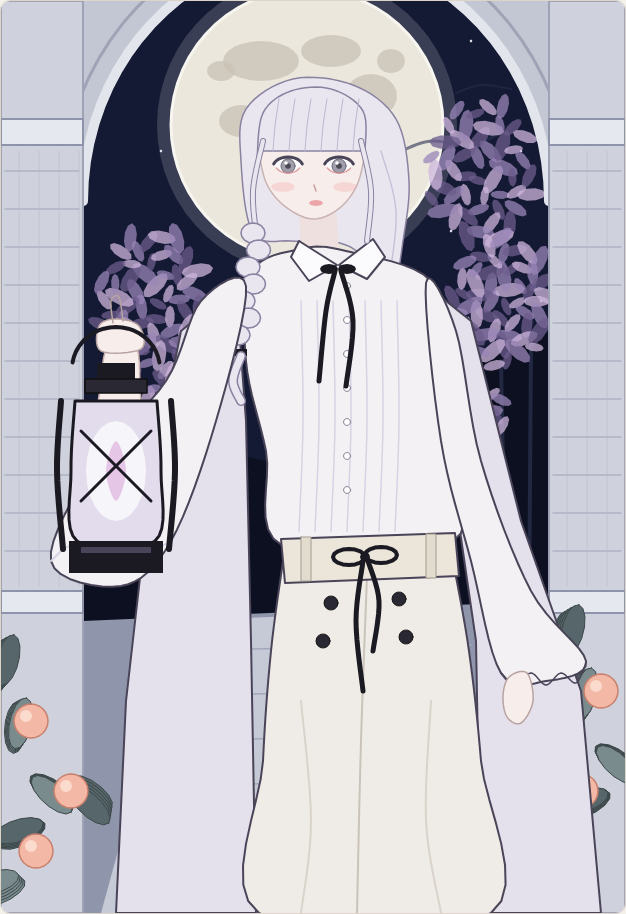
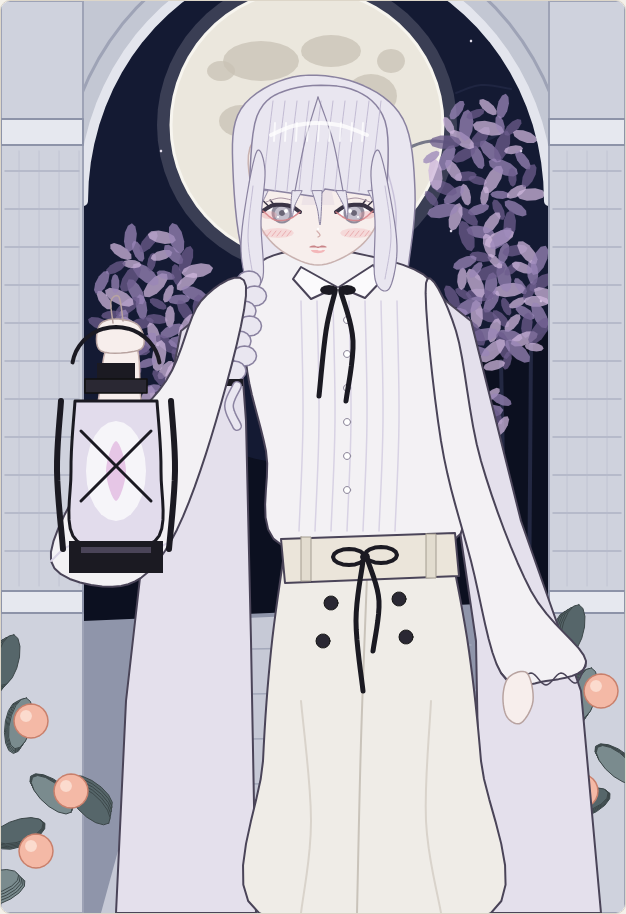
模写の顔を参考画像に近づけて描き直す
- 目の位置を下げ、両目の間隔を広げて顔の縦の比率を合わせる
- 上まぶたが瞳にかかる伏し目、目尻のまつげと赤み、頬の斜線、鼻の光を追加
- 目にかかる長めの前髪と毛束、頭頂のツヤ、顔の横の髪を描き直す
- 下がった顔に合わせて首・襟・リボン・三つ編みの位置を調整

Claude-Session: https://claude.ai/code/session_01W1Jjhj6wMiZRv3q4EmwvhF

Changed region(s): [[0.3642, 0.0613, 0.6677, 0.4902]]

diff --git a/drawing-app/moonlight-copy.js b/drawing-app/moonlight-copy.js
@@ -90,12 +90,12 @@
       { fill: '#e4e0ec', color: LINE, width: 2 });
 
   // 髪（後ろ）
-  add(curve([[240, 160], [245, 108], [292, 78], [352, 84], [395, 118], [408, 180], [402, 240], [392, 290],
-             [372, 300], [360, 255], [330, 240], [290, 240], [252, 232]], true), { fill: HAIR, color: HAIR_LINE, width: 1.5 });
+  add(curve([[232, 170], [240, 108], [292, 76], [356, 82], [402, 118], [414, 190], [408, 260], [398, 310],
+             [378, 318], [366, 270], [330, 262], [290, 262], [246, 262]], true), { fill: HAIR, color: HAIR_LINE, width: 1.5 });
   add(curve([[380, 150], [395, 210], [388, 280]]), { color: '#c9c2da', width: 1.5 });
 
   // 首
-  add([[298, 208], [335, 208], [338, 252], [300, 252]], { fill: '#ede0de', width: 0 });
+  add([[300, 250], [334, 250], [337, 282], [302, 282]], { fill: '#ede0de', width: 0 });
 
   // ブラウス（胴）
   add(curve([[300, 248], [250, 272], [245, 360], [265, 450], [282, 545], [452, 540], [445, 450], [438, 360],
@@ -110,12 +110,12 @@
   add(curve([[508, 676], [526, 672], [532, 700], [520, 722], [506, 716], [502, 695]], true), { fill: SKIN, color: '#b8a3a0', width: 1.5 });
 
   // 襟とリボン
-  add([[298, 240], [336, 264], [308, 280], [290, 256]], { fill: '#fbfafc', color: LINE, width: 2 });
-  add([[372, 238], [338, 264], [366, 278], [384, 256]], { fill: '#fbfafc', color: LINE, width: 2 });
-  add(ellipse(328, 268, 9, 5, 0, Math.PI * 2, 12), { fill: '#1b1a22', width: 0 });
-  add(ellipse(346, 268, 9, 5, 0, Math.PI * 2, 12), { fill: '#1b1a22', width: 0 });
-  add(curve([[334, 270], [325, 310], [318, 380]]), { color: '#1b1a22', width: 5 });
-  add(curve([[340, 270], [352, 320], [345, 385]]), { color: '#1b1a22', width: 5 });
+  add([[300, 266], [336, 286], [310, 298], [292, 278]], { fill: '#fbfafc', color: LINE, width: 2 });
+  add([[372, 264], [338, 286], [364, 297], [382, 278]], { fill: '#fbfafc', color: LINE, width: 2 });
+  add(ellipse(328, 289, 9, 5, 0, Math.PI * 2, 12), { fill: '#1b1a22', width: 0 });
+  add(ellipse(346, 289, 9, 5, 0, Math.PI * 2, 12), { fill: '#1b1a22', width: 0 });
+  add(curve([[334, 291], [325, 330], [318, 395]]), { color: '#1b1a22', width: 5 });
+  add(curve([[340, 291], [352, 340], [345, 400]]), { color: '#1b1a22', width: 5 });
 
   // スカート（ハイウエスト、前ボタン）
   add(curve([[282, 560], [270, 650], [262, 760], [258, H], [490, H], [480, 760], [468, 650], [452, 560]]),
@@ -136,42 +136,83 @@
   add(curve([[362, 560], [355, 620], [362, 690]]), { color: '#1b1a22', width: 5 });
   add(curve([[367, 560], [378, 600], [372, 650]]), { color: '#1b1a22', width: 5 });
 
-  // 顔
-  add(curve([[262, 125], [262, 172], [280, 202], [312, 218], [342, 204], [360, 172], [360, 125], [312, 100]], true),
+  // 顔（参考画像で目は顔の縦中央より下、両目の間隔は広め）
+  add(curve([[252, 140], [253, 200], [262, 230], [284, 252], [317, 264], [350, 252], [372, 230], [381, 200], [382, 140], [317, 98]], true),
       { fill: SKIN, color: '#c9b2b0', width: 1.5 });
-  // 目（灰色の瞳、赤みのある下まぶた）
-  [[287, 164], [338, 164]].forEach(([x, y]) => {
-    add(ellipse(x, y, 13, 8, 0, Math.PI * 2, 20), { fill: '#fbfbfd', width: 0 });
-    add(circle(x, y + 1, 7, 18), { fill: '#a19eab', color: '#6a6678', width: 1 });
-    add(circle(x, y + 1, 3, 10), { fill: '#4d4a57', width: 0 });
-    add(circle(x - 2, y - 2, 1.8, 8), { fill: '#fff', width: 0 });
-    add(ellipse(x, y + 2, 15, 10, Math.PI * 1.1, Math.PI * 1.9, 12), { color: LINE, width: 3 });
-    add(ellipse(x, y - 1, 13, 9, Math.PI * 0.15, Math.PI * 0.85, 10), { color: '#d98a8a', width: 1.5, alpha: 0.8 });
-  });
-  add(ellipse(282, 186, 12, 5, 0, Math.PI * 2, 12), { fill: '#f2a9ab', width: 0, alpha: 0.35 });
-  add(ellipse(344, 186, 12, 5, 0, Math.PI * 2, 12), { fill: '#f2a9ab', width: 0, alpha: 0.35 });
-  add([[313, 184], [315, 190]], { color: '#c9a2a0', width: 1.5 });
-  add(ellipse(315, 202, 7, 3, 0, Math.PI * 2, 12), { fill: '#eba5a8', width: 0 });
+  // 前髪の落とす影
+  add([[252, 186], [382, 186], [382, 204], [252, 204]], { fill: '#d9cfe0', width: 0, alpha: 0.35 });
 
-  // 前髪（ぱっつん）とサイドの髪
-  const fringe = [[256, 158]];
-  for (let x = 262; x <= 362; x += 10) fringe.push([x, x % 20 ? 150 : 158]);
-  add([...fringe, ...curve([[364, 150], [362, 110], [330, 88], [290, 90], [262, 112], [256, 158]])],
+  // 目：横長のアーモンド形。上まぶたが瞳の上側を大きく隠す伏し目。dir は目尻の向き
+  const eye = (cx, cy, dir) => {
+    const inner = [cx - 17 * dir, cy + 2], outer = [cx + 20 * dir, cy + 1];
+    const upper = curve([inner, [cx - 7 * dir, cy - 4], [cx + 9 * dir, cy - 5], outer]);
+    const lower = curve([outer, [cx + 8 * dir, cy + 10], [cx - 6 * dir, cy + 9], inner]);
+    add([...upper, ...lower], { fill: '#fdfcfe', width: 0 });                     // 白目
+    add(circle(cx + 1 * dir, cy + 3, 10.5, 24), { fill: '#8f8b9b', width: 0 });    // 虹彩（外周）
+    add(circle(cx + 1 * dir, cy + 4, 7.5, 20), { fill: '#c4c0cd', width: 0 });     // 虹彩（内側の明るみ）
+    add(circle(cx + 1 * dir, cy + 3, 3, 12), { fill: '#6a6676', width: 0 });       // 瞳孔
+    // 上まぶたで瞳の上側を隠す（肌色で覆う）
+    add([...upper, [outer[0] + 4 * dir, cy - 18], [inner[0] - 4 * dir, cy - 18]], { fill: SKIN, width: 0 });
+    add(upper, { color: '#3a3445', width: 4 });                                    // まつげの線
+    [[0.55, -6], [0.8, -5], [1, -3]].forEach(([t, dy]) => {                        // 目尻側のまつげ
+      const x = cx + (-7 + 27 * t) * dir, y = cy - 4 + (t > 0.9 ? 4 : 0);
+      add([[x, y], [x + 5 * dir, y + dy]], { color: '#3a3445', width: 1.5 });
+    });
+    add(curve([[cx - 12 * dir, cy - 9], [cx + 3 * dir, cy - 12], [cx + 17 * dir, cy - 8]]), { color: '#a893a3', width: 1 }); // 二重
+    add(lower, { color: '#d47f86', width: 1.5, alpha: 0.9 });                     // 赤みのある下まぶた
+    add(ellipse(cx + 14 * dir, cy + 5, 8, 4, 0, Math.PI * 2, 12), { fill: '#e79a9f', width: 0, alpha: 0.35 }); // 目尻の赤
+    add(circle(cx - 3 * dir, cy + 1, 2, 8), { fill: '#fff', width: 0 });          // ハイライト
+    add(circle(cx + 5 * dir, cy + 7, 1.2, 6), { fill: '#fff', width: 0, alpha: 0.9 });
+  };
+  eye(282, 209, -1);
+  eye(352, 209, 1);
+
+  // 頬の赤み（斜線）
+  [[266, 230], [344, 230]].forEach(([x, y]) => {
+    add(ellipse(x + 11, y + 2, 16, 5, 0, Math.PI * 2, 12), { fill: '#f2a9ab', width: 0, alpha: 0.3 });
+    for (let i = 0; i < 5; i++) add([[x + i * 5, y + 5], [x + i * 5 + 4, y]], { color: '#e38f95', width: 1, alpha: 0.6 });
+  });
+  // 鼻（小さな影と光）と唇
+  add(curve([[316, 230], [319, 234], [317, 236]]), { color: '#d2aaa8', width: 1.2 });
+  add(circle(317, 228, 1.3, 6), { fill: '#fff', width: 0, alpha: 0.9 });
+  add(curve([[309, 246], [313, 245], [317, 246.5], [321, 245], [325, 246]]), { fill: '#eda9ad', color: '#c98488', width: 1.2 });
+  add(ellipse(317, 249, 7, 3.2, 0, Math.PI, 12), { fill: '#f3b7b9', width: 0 });
+  add(ellipse(319, 249, 2.5, 0.8, 0, Math.PI * 2, 8), { fill: '#fff', width: 0, alpha: 0.7 });
+
+  // 前髪（目の上まで届く長めのぱっつん。数本の毛束が目元にかかる）
+  const fringe = [[248, 192]];
+  for (let x = 254; x <= 382; x += 7) fringe.push([x, 188 + ((x * 13) % 9)]);
+  add([...fringe, ...curve([[386, 192], [384, 120], [350, 88], [290, 88], [256, 115], [248, 192]])],
       { fill: HAIR, color: HAIR_LINE, width: 1.5 });
-  for (let x = 272; x <= 352; x += 16) add(curve([[x + 6, 98], [x + 2, 125], [x, 150]]), { color: '#bdb6cf', width: 1 });
-  add(curve([[262, 140], [252, 190], [256, 240]]), { color: HAIR_LINE, width: 6 });
-  add(curve([[360, 140], [370, 190], [366, 240]]), { color: HAIR_LINE, width: 6 });
-  add(curve([[262, 140], [252, 190], [256, 240]]), { color: HAIR, width: 4 });
-  add(curve([[360, 140], [370, 190], [366, 240]]), { color: HAIR, width: 4 });
+  for (let x = 262; x <= 376; x += 12) add(curve([[x + 10, 100], [x + 4, 150], [x, 190]]), { color: '#c3bcd4', width: 1 });
+  [[316, 192, 319, 224], [296, 192, 291, 216], [340, 192, 346, 218], [262, 192, 256, 222], [372, 192, 378, 222]]
+    .forEach(([x1, y1, x2, y2]) => {
+      const mx = (x1 + x2) / 2 + (x2 - x1) * 0.3, my = (y1 + y2) / 2;
+      add(curve([[x1 - 5, y1 - 2], [mx - 2, my], [x2, y2], [mx + 2, my], [x1 + 5, y1 - 2]]),
+          { fill: HAIR, color: HAIR_LINE, width: 1 });
+    });
+  // 前髪の分け目から左右へ流れる毛束
+  add(curve([[317, 96], [304, 140], [294, 190]]), { color: HAIR_LINE, width: 1.2 });
+  add(curve([[317, 96], [332, 140], [342, 190]]), { color: HAIR_LINE, width: 1.2 });
+  // 頭頂のツヤ（天使の輪）
+  add(curve([[270, 134], [292, 125], [317, 122], [342, 125], [366, 134]]), { color: '#ffffff', width: 4, alpha: 0.75 });
+  for (let x = 274; x <= 362; x += 11) add([[x, 122], [x - 1, 140]], { color: '#ffffff', width: 2, alpha: 0.7 });
+  // 顔の横に垂れるサイドの髪
+  add(curve([[256, 150], [245, 200], [240, 250], [248, 285], [262, 276], [260, 220], [264, 170]], true),
+      { fill: HAIR, color: HAIR_LINE, width: 1.2 });
+  add(curve([[378, 150], [390, 200], [396, 250], [388, 288], [374, 278], [374, 220], [370, 170]], true),
+      { fill: HAIR, color: HAIR_LINE, width: 1.2 });
+  add(curve([[252, 185], [247, 235], [252, 275]]), { color: '#c3bcd4', width: 1 });
+  add(curve([[384, 185], [390, 235], [384, 278]]), { color: '#c3bcd4', width: 1 });
 
   // 三つ編み（画面左の肩へ）
   for (let i = 0; i < 7; i++) {
-    const x = 256 - i * 2.5, y = 232 + i * 17;
+    const x = 252 - i * 2.5, y = 280 + i * 15;
     add(ellipse(x + (i % 2 ? 4 : -4), y, 12, 10, 0, Math.PI * 2, 16), { fill: HAIR, color: HAIR_LINE, width: 1.5 });
   }
-  add(rect(230, 348, 16, 7), { fill: '#1b1a22', width: 0 });
-  add(curve([[240, 355], [232, 380], [240, 400]]), { color: HAIR_LINE, width: 10 });
-  add(curve([[240, 355], [232, 380], [240, 400]]), { color: HAIR, width: 7 });
+  add(rect(226, 378, 16, 7), { fill: '#1b1a22', width: 0 });
+  add(curve([[236, 385], [228, 405], [236, 425]]), { color: HAIR_LINE, width: 10 });
+  add(curve([[236, 385], [228, 405], [236, 425]]), { color: HAIR, width: 7 });
 
   // 左袖（画面左、ランタンを掲げる腕）
   add(curve([[245, 285], [200, 300], [165, 380], [95, 460], [50, 560], [120, 585], [170, 540], [215, 420]], true),
